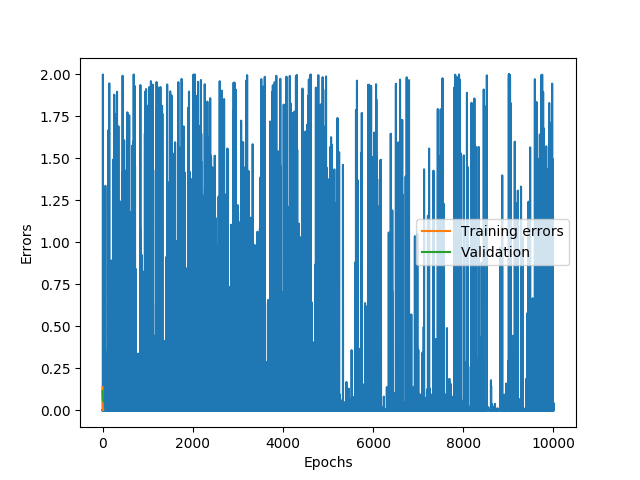
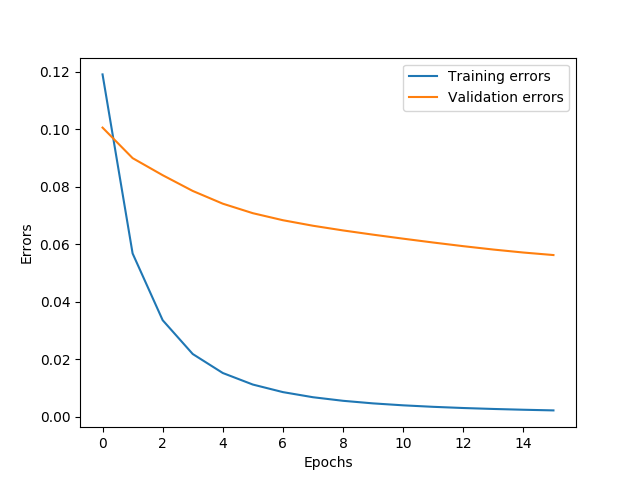
validation ok maybe

diff --git a/nn_mnist.py b/nn_mnist.py
@@ -42,8 +42,8 @@ valid_x, valid_y = valid_set
 test_x, test_y = test_set
 
 train_y = one_hot(train_y.astype(int), 10)
-valid_y = one_hot(valid_y.astype(int),10)
-test_y = one_hot(test_y.astype(int),10)
+valid_y = one_hot(valid_y.astype(int), 10)
+test_y = one_hot(test_y.astype(int), 10)
 
 x = tf.placeholder("float", [None, 784])  # samples
 y_ = tf.placeholder("float", [None, 10])  # labels
@@ -79,35 +79,50 @@ validation_errors = []
 test_errors = []
 last_validation_error = 1
 before_validation_error = 1
+epoch = 0
 validation_error = 0.1
 diferrence = 100
 
-for epoch in range(100):
+while (validation_error <= last_validation_error and diferrence > 0.001):
+    epoch += 1
     for jj in xrange(len(train_x) / batch_size):
         batch_training_xs = train_x[jj * batch_size: jj * batch_size + batch_size]
         batch_training_ys = train_y[jj * batch_size: jj * batch_size + batch_size]
         sess.run(train, feed_dict={x: batch_training_xs, y_: batch_training_ys})
 
+    for kk in xrange(len(valid_x) / batch_size):
+        batch_validation_xs = valid_x[kk * batch_size: kk * batch_size + batch_size]
+        batch_validation_ys = valid_y[kk * batch_size: kk * batch_size + batch_size]
+        sess.run(train, feed_dict={x: batch_validation_xs, y_: batch_validation_ys})
+
     training_error = sess.run(loss, feed_dict={x: batch_training_xs, y_: batch_training_ys})
     training_errors.append(training_error)
+
+    validation_error = sess.run(loss, feed_dict={x: batch_validation_xs, y_: batch_validation_ys})
+    validation_errors.append(validation_error)
+    if (epoch > 1):
+        diferrence = validation_errors[-2] - validation_error
+    last_validation_error = validation_errors[-1]
 
     print_results(mode="Training", epoch_number=epoch, error=training_error,
                   batch_xs=batch_training_xs, batch_ys=batch_training_ys)
 
+    print_results(mode="Validation", epoch_number=epoch, error=validation_error,
+                  batch_xs=batch_validation_xs, batch_ys=batch_validation_ys)
 # ---------------- Visualizing some element of the MNIST dataset --------------
 plt.ylabel('Errors')
 plt.xlabel('Epochs')
 # test_line, = plt.plot(test_errors)
 training_line, = plt.plot(training_errors)
-# validation_line, = plt.plot(validation_errors)
-plt.legend(handles=[training_line],
-           labels=["Training errors"])
+validation_line, = plt.plot(validation_errors)
+plt.legend(handles=[training_line, validation_line],
+           labels=["Training errors", "Validation errors"])
 plt.savefig('mn.png')
 
-plt.imshow(train_x[57].reshape((28, 28)), cmap=cm.Greys_r)
+#plt.imshow(train_x[57].reshape((28, 28)), cmap=cm.Greys_r)
 # plt.show()  # Let's see a sample
 # print train_y[57]
-plt.savefig('number.png')
+#plt.savefig('number.png')
 
 
 # TODO: the neural net!!
